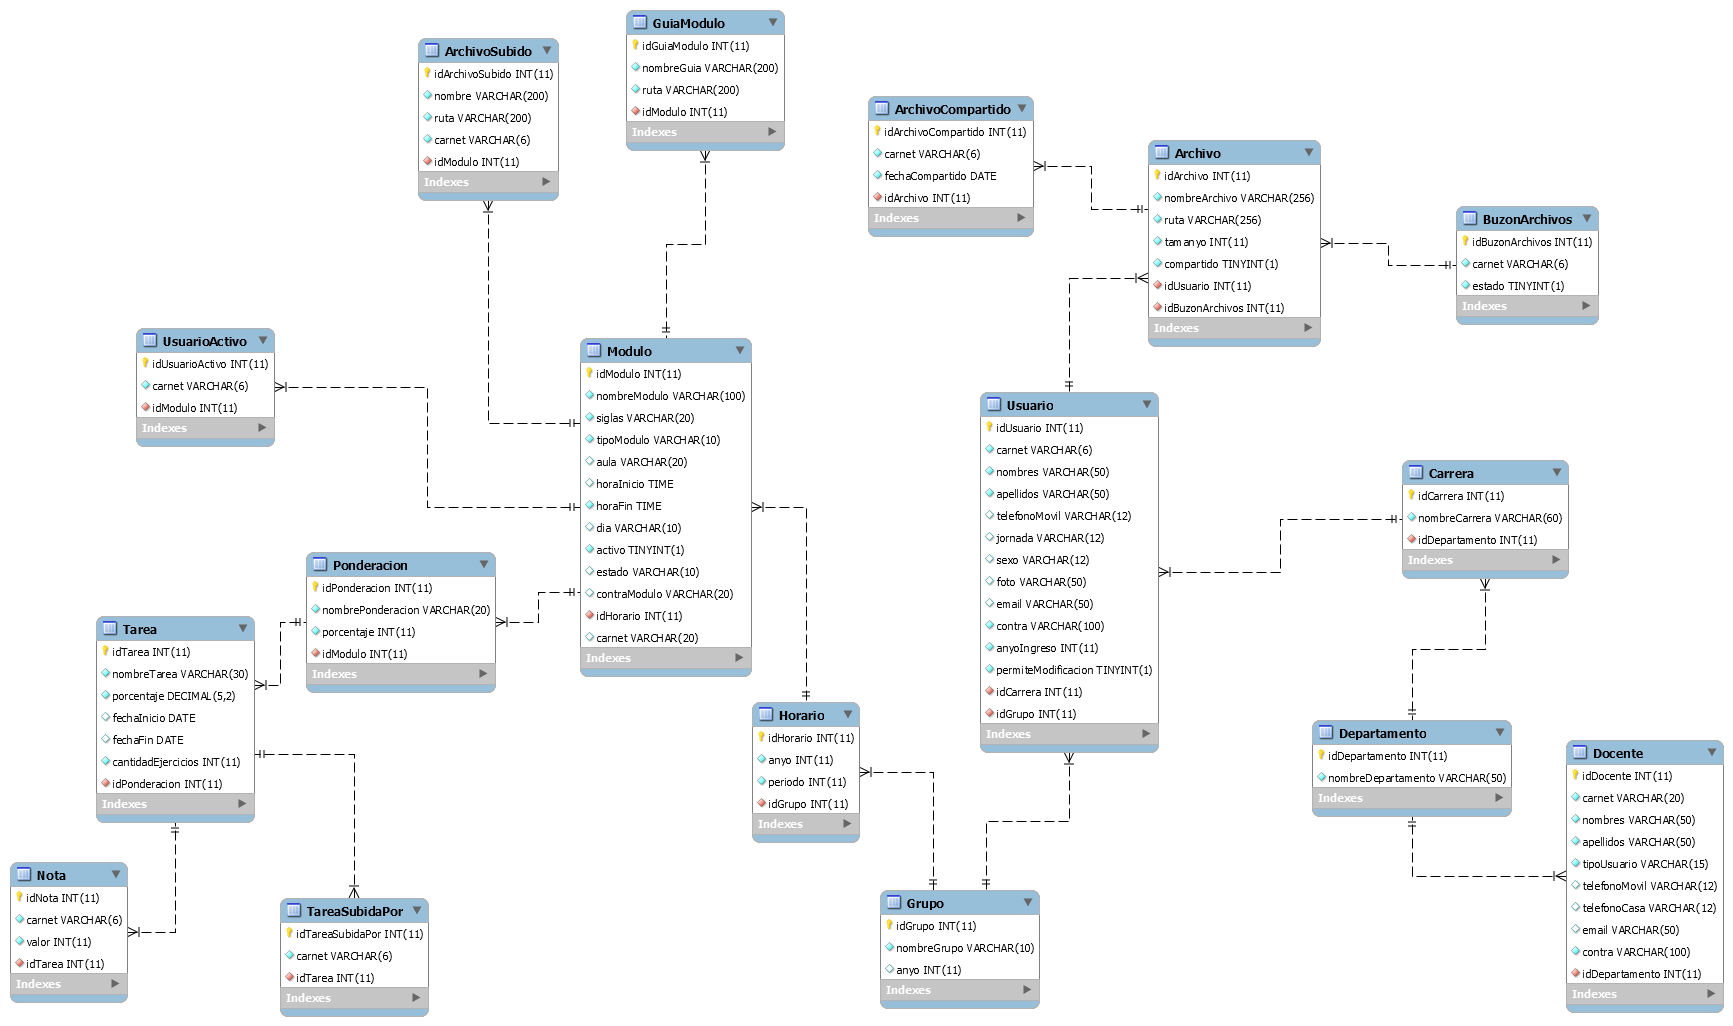
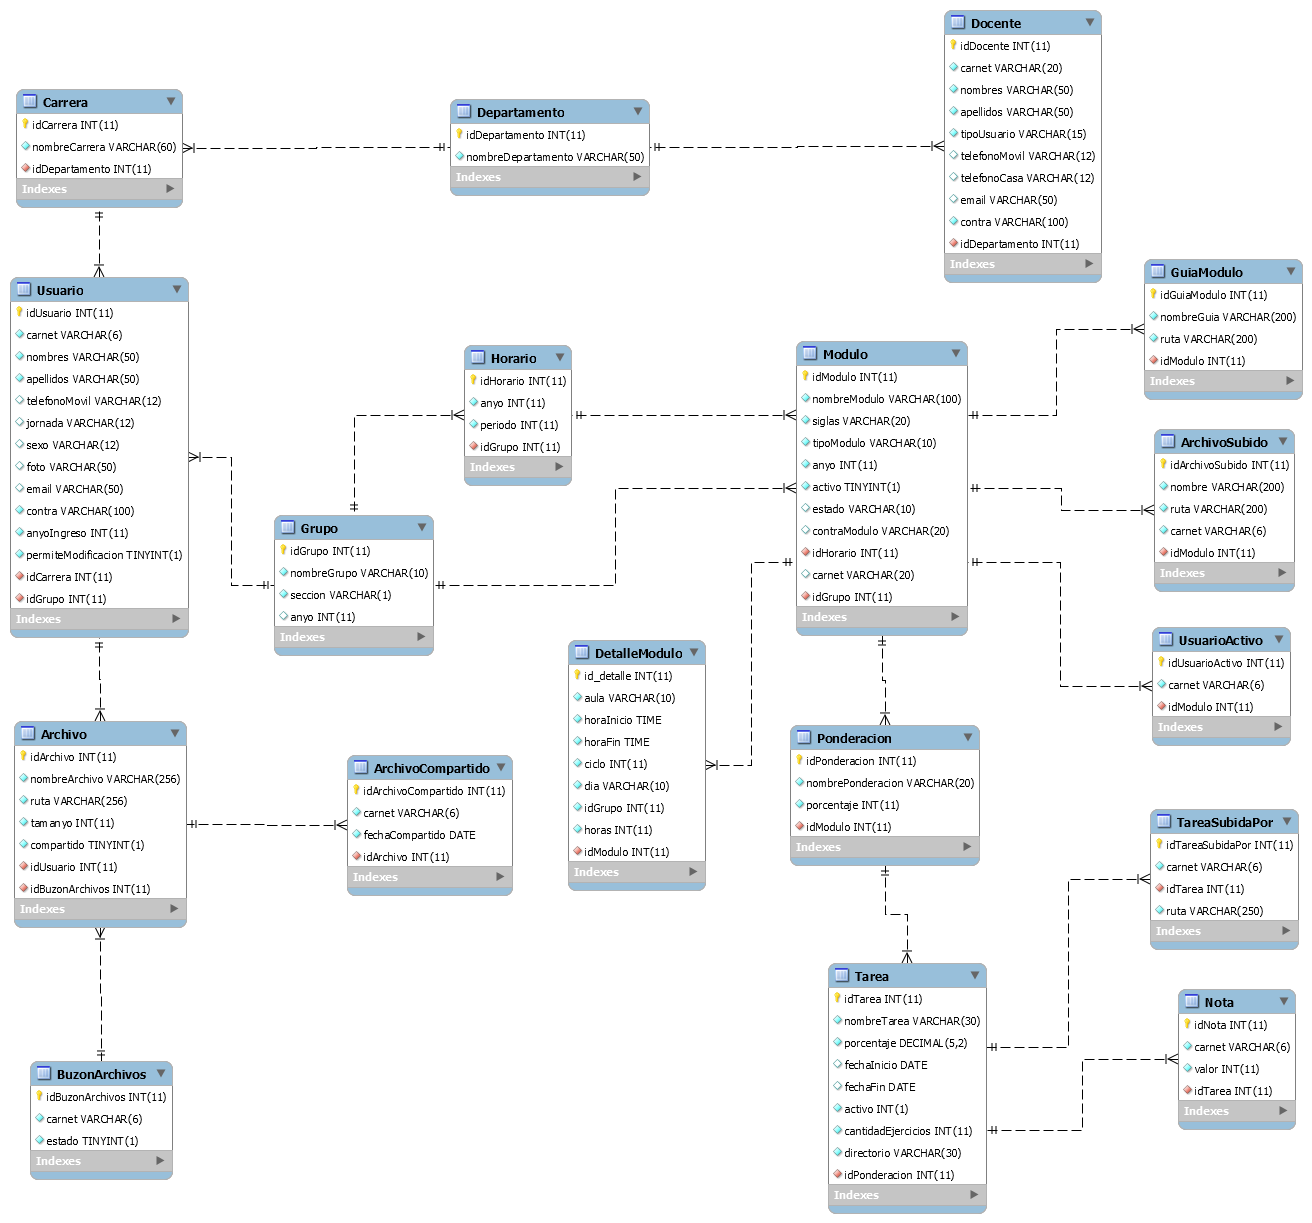
Cambios Sutanciales en la BD
Se agrego la tabla detalleModulo
Y se eliminaron campos de la tabla Modulo para poder trabajar con los horarios.

Se cambió la conexión para que utilice UTF-8 como codificación

diff --git a/config/bd.php b/config/bd.php
@@ -33,6 +33,7 @@ class BaseDatos
 
 		$bd = new mysqli(descifrar(HOST),descifrar(USER),descifrar(PASS),descifrar(DATABASE));
 		$bd = new mysqli("localhost","usuarioItca","12345","SistemaNotasItca");
+		$bd->set_charset("utf8");
 		if($bd->connect_error)
 		{
 			return "La conexión ha fallado: ". $bd->connect_error;
